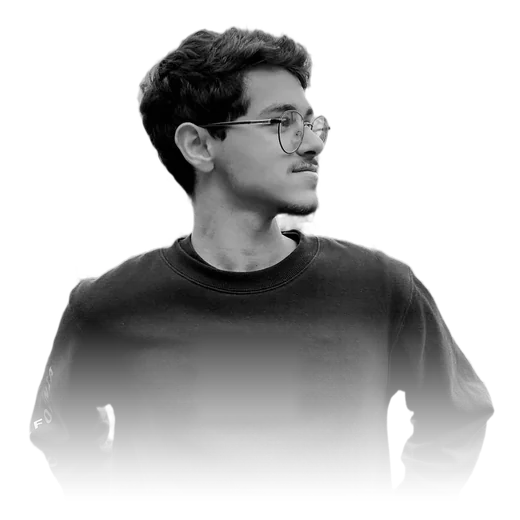
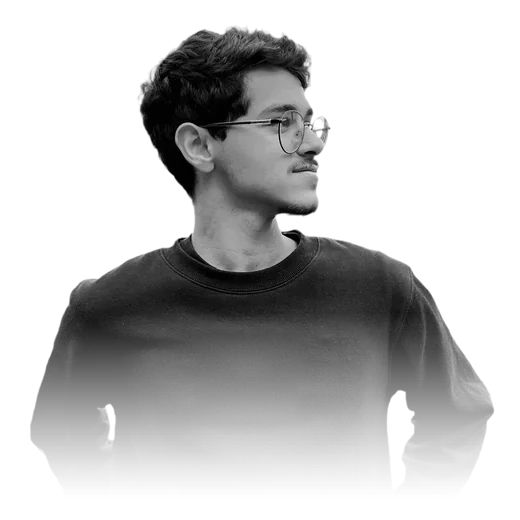
fotos: originais no hero e terno no Sobre

diff --git a/index.html b/index.html
@@ -86,7 +86,7 @@
       <p class="poster-name"><span>Guilherme</span> <span>Dias</span></p>
 
       <div class="poster-photo">
-        <img src="images/guilherme-800.webp" srcset="images/guilherme-520.webp 520w, images/guilherme-800.webp 800w" sizes="(max-width: 999px) 84vw, min(46vw, 78svh, 820px)" width="800" height="800" fetchpriority="high" decoding="async" alt="Guilherme Dias de óculos e moletom preto, olhando para o lado." />
+        <img src="images/guilherme-800.webp" srcset="images/guilherme-520.webp 520w, images/guilherme-800.webp 800w, images/guilherme-1100.webp 1100w" sizes="(max-width: 999px) 84vw, min(46vw, 78svh, 820px)" width="800" height="800" fetchpriority="high" decoding="async" alt="Guilherme Dias de óculos e moletom preto, olhando para o lado." />
       </div>
 
       <div class="poster-left">
@@ -504,7 +504,7 @@
     <section id="sobre" class="sec sec-paper">
       <div class="frame about-grid">
         <div class="about-media reveal">
-          <img src="images/sobre-900.webp" srcset="images/sobre-600.webp 600w, images/sobre-900.webp 900w" sizes="(max-width: 999px) calc(100vw - 36px), 42vw" width="900" height="850" loading="lazy" decoding="async" alt="Guilherme de camiseta branca, sentado num barco em frente à mata, com a bandeira do Brasil ao fundo." />
+          <img src="images/sobre-640.webp" srcset="images/sobre-640.webp 640w, images/sobre-1100.webp 1100w" sizes="(max-width: 999px) min(calc(100vw - 36px), 560px), 42vw" width="1100" height="986" loading="lazy" decoding="async" alt="Guilherme de terno azul e gravata, fazendo uma selfie no espelho." />
         </div>
         <div class="reveal">
           <div class="eyebrow">sobre</div>

diff --git a/home.css b/home.css
@@ -31,11 +31,13 @@
 
 /* ---------- ritmo das seções ---------- */
 .sec {
-  padding-block: clamp(64px, 7.5vw, 124px);
+  --sec-pad: clamp(64px, 7.5vw, 124px);
+  padding-block: var(--sec-pad);
   background: var(--bg);
   color: var(--text);
+  scroll-margin-top: 57px;  /* altura da nav */
 }
-.sec-tight { padding-top: 0; }
+.sec-tight { padding-top: 0; scroll-margin-top: 81px; }
 /* projetos fica na escala do cartaz; do "o que eu faço" pra baixo a página é de leitura */
 #projetos { padding-block: clamp(72px, 10vw, 168px); }
 
@@ -607,11 +609,13 @@
   gap: clamp(32px, 5vw, 96px);
   align-items: center;
 }
+#sobre { overflow: hidden; }
+/* a foto recortada fica apoiada na borda de baixo da seção */
+.about-media { align-self: end; margin-bottom: calc(-1 * var(--sec-pad)); }
 .about-media img {
   display: block;
   width: 100%;
   height: auto;
-  border-radius: 6px;
 }
 .about {
   margin-top: clamp(18px, 2vw, 30px);
@@ -788,6 +792,7 @@
   .svc-link { margin-top: 0; }
   .steps { grid-template-columns: repeat(2, minmax(0, 1fr)); }
   .about-grid { grid-template-columns: minmax(0, 1fr); }
+  .about-media { order: 2; justify-self: center; width: min(100%, 560px); }
   .principle-cols { grid-template-columns: minmax(0, 1fr); }
 }
 
